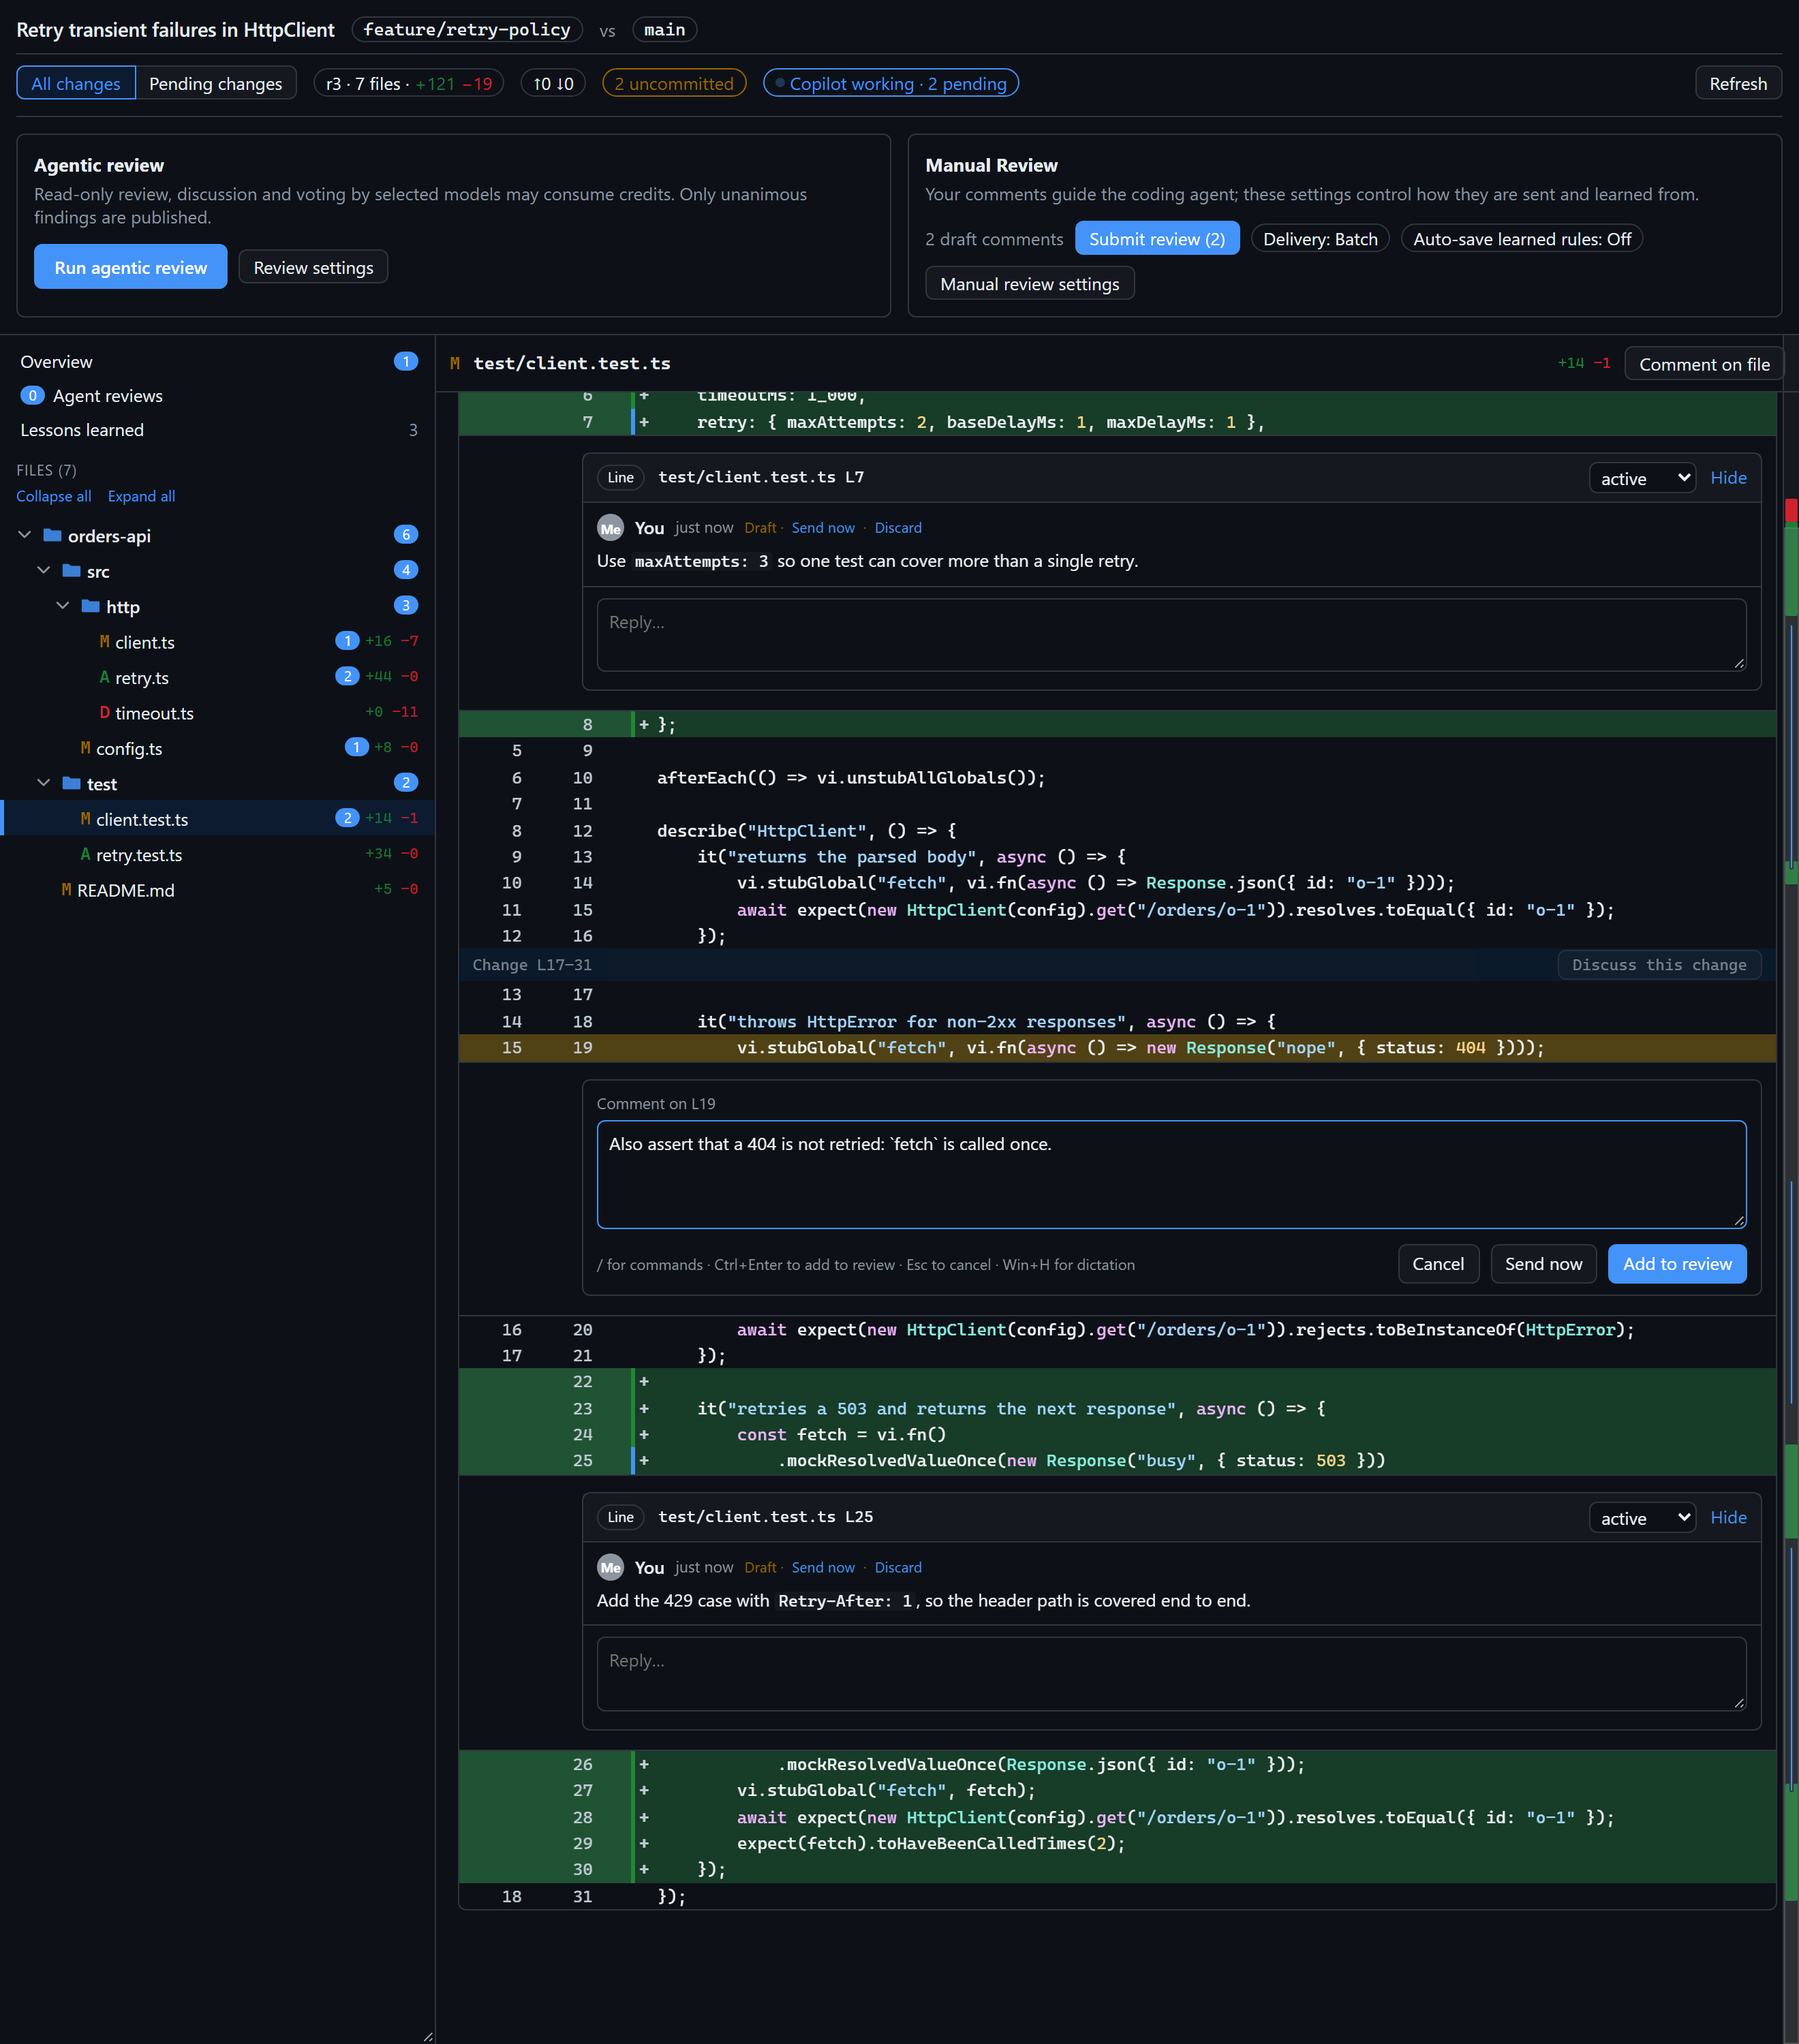
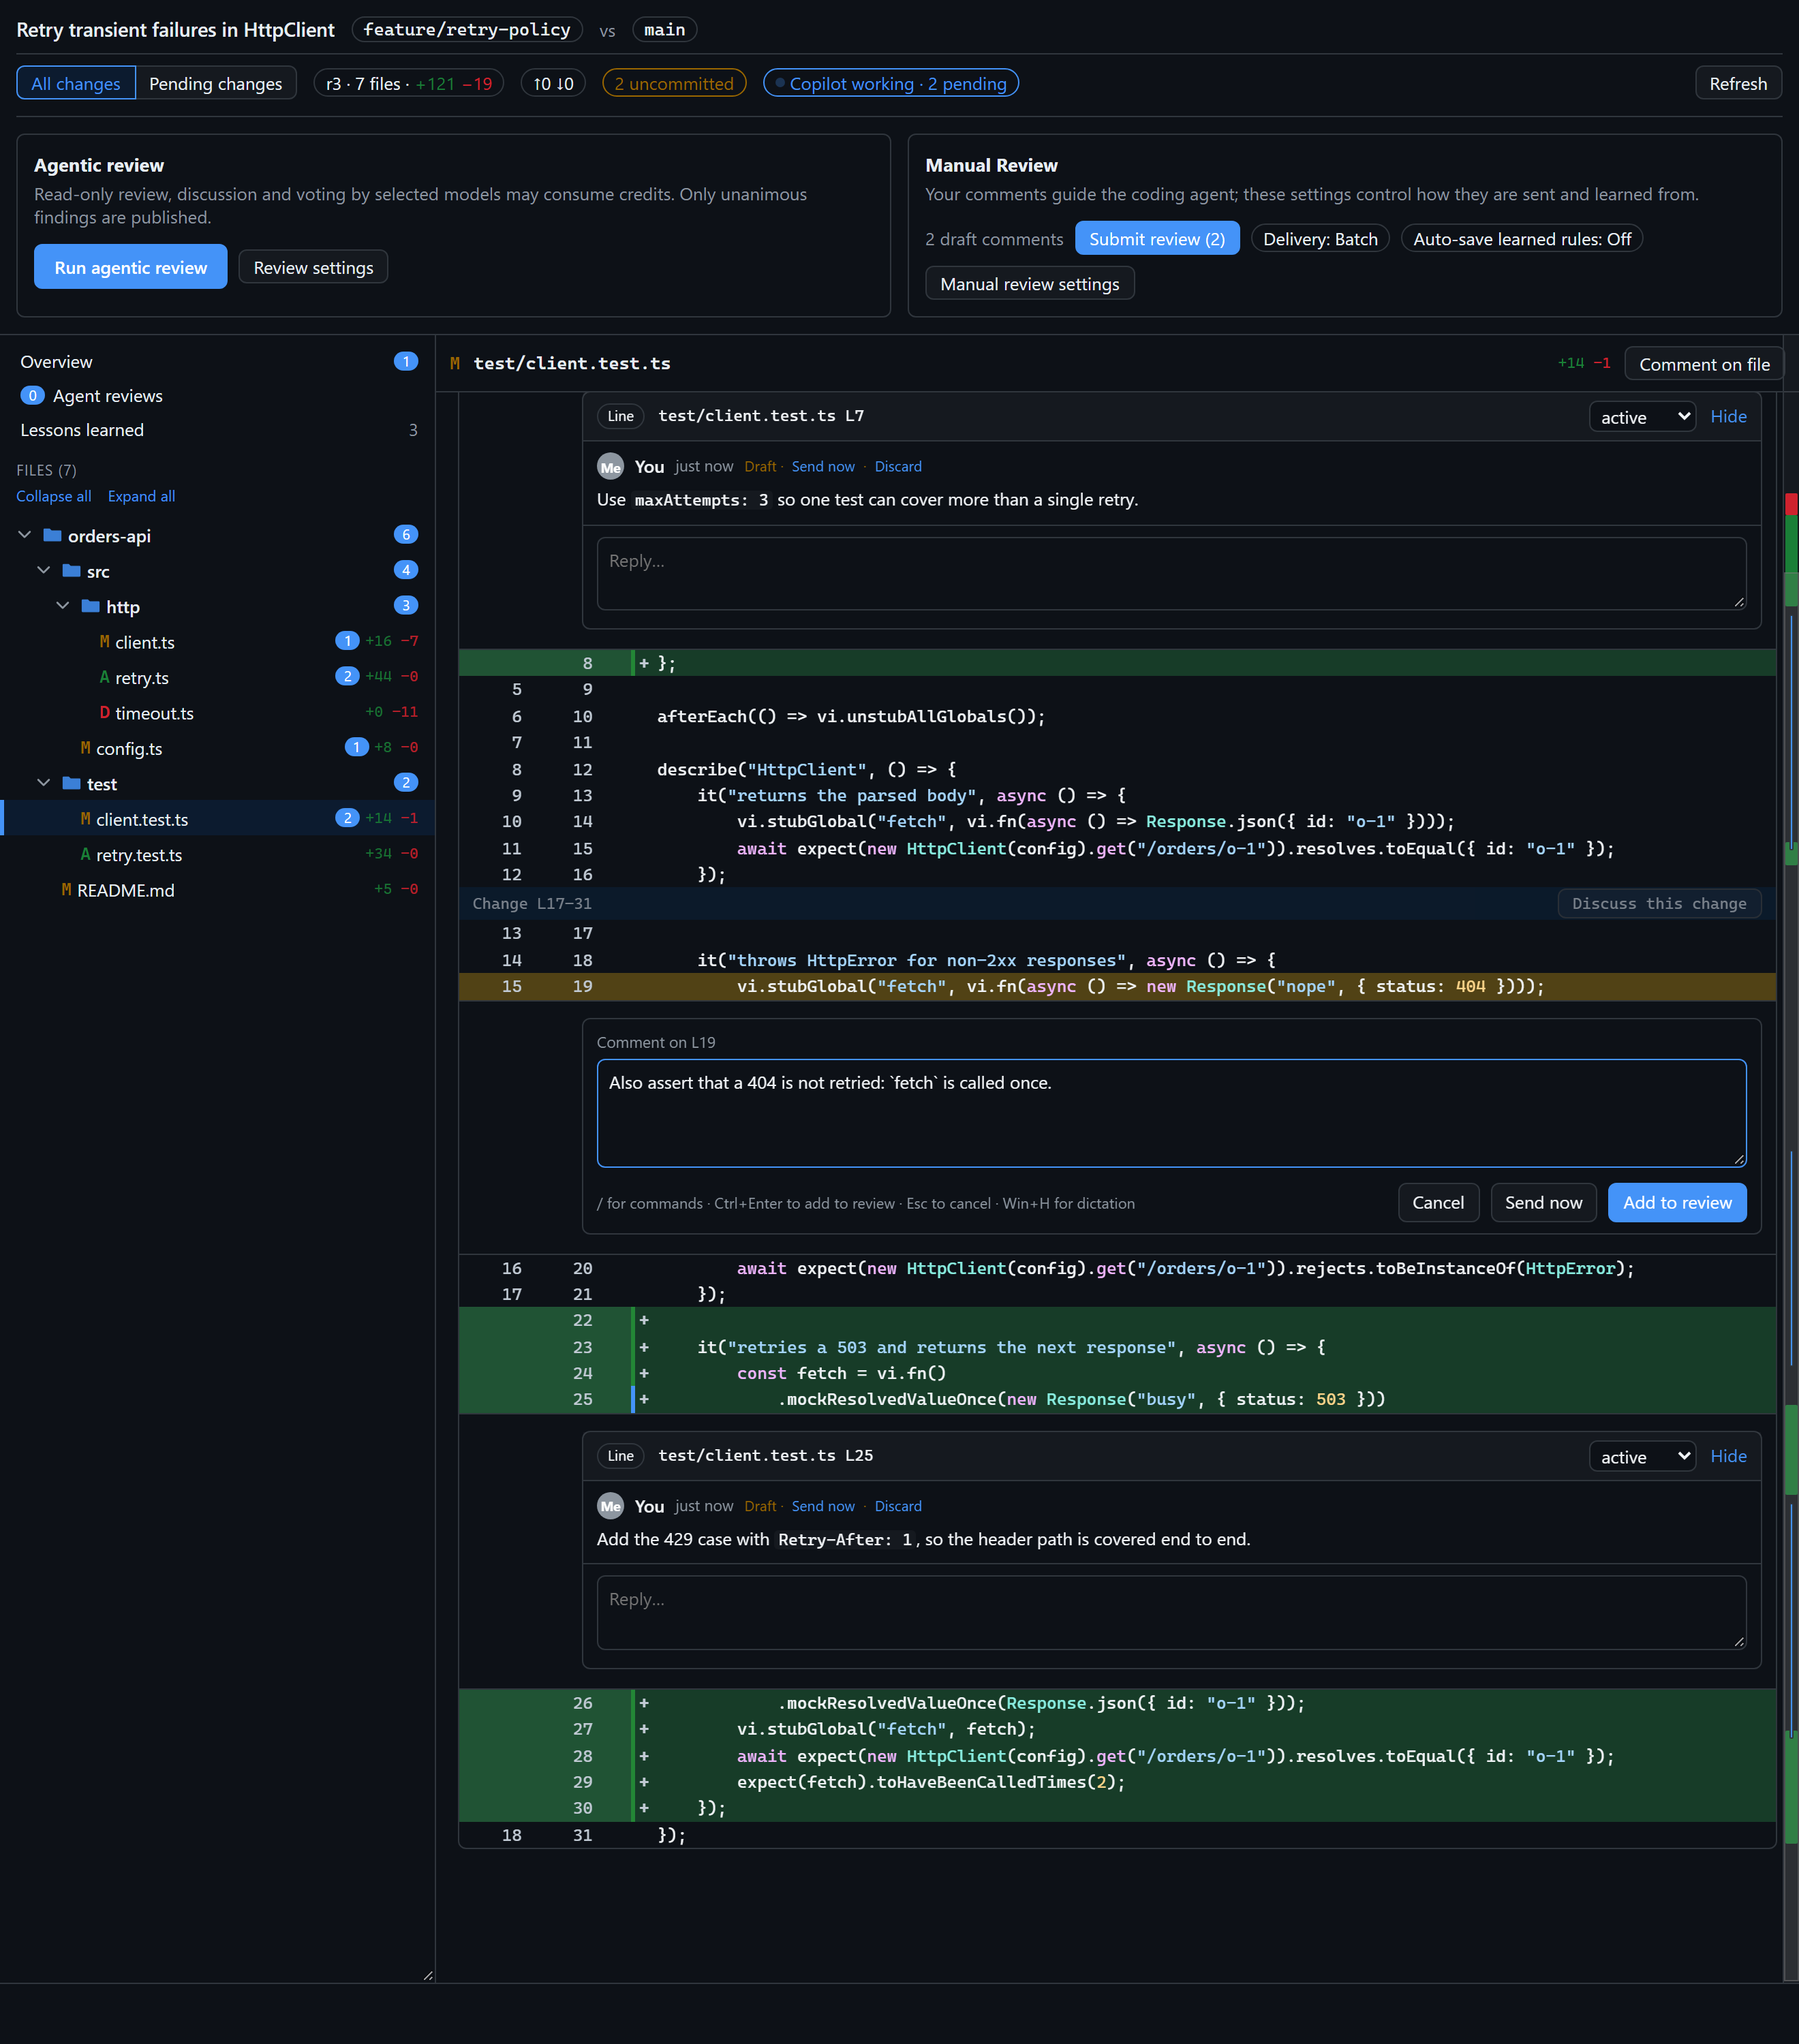
Keep the review layout stable while refreshing
Fixes #31.

diff --git a/extensions/self-review/dist/web/app.js b/extensions/self-review/dist/web/app.js
@@ -844,9 +844,13 @@ function renderLoadStatus() {
     const failureLabel = loadError ? "Could not load the current review" : "Could not refresh from the working tree";
     status.hidden = !pending && !error;
     status.className = error && !pending ? "review-status del" : "review-status muted";
-    status.innerHTML = pending
+    const message = pending
         ? state.review ? "Refreshing review and Overview... Showing the last loaded data." : "Loading review and Overview..."
-        : error ? `${failureLabel}: ${esc(error)}. ${state.review ? "Showing the last loaded data. " : ""}<button data-action="refresh">Retry</button>` : "";
+        : error ? `${failureLabel}: ${esc(error)}. ${state.review ? "Showing the last loaded data." : ""}` : "";
+    const retry = error && !pending ? `<button type="button" data-action="refresh">Retry</button>` : "";
+    const html = message ? `<span class="review-status-message">${message}</span>${retry}` : "";
+    if (status.innerHTML !== html)
+        status.innerHTML = html;
 }
 async function loadState() {
     clearTimeout(reloadTimer);
@@ -917,7 +921,8 @@ function scheduleReload() {
         reloadPending = false;
         return;
     }
-    reloadTimer = window.setTimeout(() => loadState().catch((err) => toast(errorMessage(err), true)), 120);
+    // loadState already reports failures in the persistent status footer.
+    reloadTimer = window.setTimeout(() => loadState().catch(() => undefined), 120);
 }
 async function refreshReview() {
     refreshing = true;
@@ -1382,7 +1387,7 @@ function renderDialog() {
     if (!dialog)
         return;
     dialog.innerHTML = dialogHtml();
-    for (const id of ["#top", "#banner", "#layout"]) {
+    for (const id of ["#top", "#banner", "#layout", "#review-status-slot"]) {
         const el = $(id);
         if (el)
             el.inert = Boolean(state.dialog);
@@ -2755,9 +2760,10 @@ async function onClick(e) {
         }
     }
     catch (err) {
-        toast(errorMessage(err), true);
         if (action === "refresh")
             target.removeAttribute("disabled");
+        else
+            toast(errorMessage(err), true);
     }
 }
 async function onChange(e) {

diff --git a/extensions/self-review/src/web/app.ts b/extensions/self-review/src/web/app.ts
@@ -1070,9 +1070,12 @@ function renderLoadStatus(): void {
     const failureLabel = loadError ? "Could not load the current review" : "Could not refresh from the working tree";
     status.hidden = !pending && !error;
     status.className = error && !pending ? "review-status del" : "review-status muted";
-    status.innerHTML = pending
+    const message = pending
         ? state.review ? "Refreshing review and Overview... Showing the last loaded data." : "Loading review and Overview..."
-        : error ? `${failureLabel}: ${esc(error)}. ${state.review ? "Showing the last loaded data. " : ""}<button data-action="refresh">Retry</button>` : "";
+        : error ? `${failureLabel}: ${esc(error)}. ${state.review ? "Showing the last loaded data." : ""}` : "";
+    const retry = error && !pending ? `<button type="button" data-action="refresh">Retry</button>` : "";
+    const html = message ? `<span class="review-status-message">${message}</span>${retry}` : "";
+    if (status.innerHTML !== html) status.innerHTML = html;
 }
 
 async function loadState() {
@@ -1138,7 +1141,8 @@ function scheduleReload() {
         reloadPending = false;
         return;
     }
-    reloadTimer = window.setTimeout(() => loadState().catch((err: unknown) => toast(errorMessage(err), true)), 120);
+    // loadState already reports failures in the persistent status footer.
+    reloadTimer = window.setTimeout(() => loadState().catch(() => undefined), 120);
 }
 
 async function refreshReview(): Promise<void> {
@@ -1586,7 +1590,7 @@ function renderDialog() {
     const dialog = $("#dialog");
     if (!dialog) return;
     dialog.innerHTML = dialogHtml();
-    for (const id of ["#top", "#banner", "#layout"]) {
+    for (const id of ["#top", "#banner", "#layout", "#review-status-slot"]) {
         const el = $(id);
         if (el) el.inert = Boolean(state.dialog);
     }
@@ -2931,8 +2935,8 @@ async function onClick(e: MouseEvent): Promise<void> {
                 break;
         }
     } catch (err: unknown) {
-        toast(errorMessage(err), true);
         if (action === "refresh") target.removeAttribute("disabled");
+        else toast(errorMessage(err), true);
     }
 }
 

diff --git a/extensions/self-review/dist/web/index.html b/extensions/self-review/dist/web/index.html
@@ -10,12 +10,14 @@
 <body>
     <header id="top"><span class="muted">Loading review…</span></header>
     <div id="banner" role="region" aria-label="Guideline learning" hidden></div>
-    <div id="review-status" class="review-status muted" role="status" aria-live="polite" hidden></div>
     <div id="layout">
         <nav id="side" aria-label="Review navigation"></nav>
         <main id="main" tabindex="-1"></main>
         <div id="ruler" aria-hidden="true"></div>
     </div>
+    <footer id="review-status-slot" role="status" aria-live="polite">
+        <div id="review-status" class="review-status muted" hidden></div>
+    </footer>
     <div id="dialog"></div>
     <div id="toast" role="status" aria-live="polite" hidden></div>
     <script type="module" src="app.js"></script>

diff --git a/extensions/self-review/web/index.html b/extensions/self-review/web/index.html
@@ -10,12 +10,14 @@
 <body>
     <header id="top"><span class="muted">Loading review…</span></header>
     <div id="banner" role="region" aria-label="Guideline learning" hidden></div>
-    <div id="review-status" class="review-status muted" role="status" aria-live="polite" hidden></div>
     <div id="layout">
         <nav id="side" aria-label="Review navigation"></nav>
         <main id="main" tabindex="-1"></main>
         <div id="ruler" aria-hidden="true"></div>
     </div>
+    <footer id="review-status-slot" role="status" aria-live="polite">
+        <div id="review-status" class="review-status muted" hidden></div>
+    </footer>
     <div id="dialog"></div>
     <div id="toast" role="status" aria-live="polite" hidden></div>
     <script type="module" src="app.js"></script>

diff --git a/extensions/self-review/dist/web/styles.css b/extensions/self-review/dist/web/styles.css
@@ -96,8 +96,6 @@ body[data-theme-tone="light"] {
 
 * { box-sizing: border-box; }
 
-.review-status { padding: 8px 16px; border-bottom: 1px solid var(--mr-border); }
-
 html, body {
     margin: 0;
     height: 100%;
@@ -108,6 +106,25 @@ html, body {
 }
 
 body { display: flex; flex-direction: column; overflow: hidden; }
+
+#review-status-slot {
+    flex: 0 0 3.5rem;
+    min-height: 0;
+    border-top: 1px solid var(--mr-border);
+}
+.review-status:not([hidden]) {
+    display: flex;
+    align-items: center;
+    gap: 8px;
+    height: 100%;
+    padding: 4px 16px;
+}
+.review-status-message {
+    min-width: 0;
+    max-height: 100%;
+    overflow: auto;
+    overflow-wrap: anywhere;
+}
 
 button, select, textarea, input { font: inherit; color: inherit; }
 

diff --git a/extensions/self-review/web/styles.css b/extensions/self-review/web/styles.css
@@ -96,8 +96,6 @@ body[data-theme-tone="light"] {
 
 * { box-sizing: border-box; }
 
-.review-status { padding: 8px 16px; border-bottom: 1px solid var(--mr-border); }
-
 html, body {
     margin: 0;
     height: 100%;
@@ -108,6 +106,25 @@ html, body {
 }
 
 body { display: flex; flex-direction: column; overflow: hidden; }
+
+#review-status-slot {
+    flex: 0 0 3.5rem;
+    min-height: 0;
+    border-top: 1px solid var(--mr-border);
+}
+.review-status:not([hidden]) {
+    display: flex;
+    align-items: center;
+    gap: 8px;
+    height: 100%;
+    padding: 4px 16px;
+}
+.review-status-message {
+    min-width: 0;
+    max-height: 100%;
+    overflow: auto;
+    overflow-wrap: anywhere;
+}
 
 button, select, textarea, input { font: inherit; color: inherit; }
 

diff --git a/README.md b/README.md
@@ -51,7 +51,7 @@ Select lines on either side of the diff to start a thread.
 
 The overview has the PR-style description the agent drafted, the overall discussion, and every thread with its delivery state. Revision snapshots still anchor threads and agent reviews but are not listed on the overview.
 
-A status strip indicates when the review and Overview are loading or refreshing; existing content stays visible as last-loaded data while updates arrive. Failed loads remain visible with **Retry**, without discarding your navigation or comment drafts. A missing description means no draft has been saved, not that generation is underway: ask Copilot in the Overview discussion to write one. Descriptions based on an earlier diff are explicitly labeled until the agent updates them.
+A fixed-height footer shows when the review and Overview are loading or refreshing without moving the file tree, Overview, or controls. The last loaded review stays visible while updates arrive. Errors remain in the footer with **Retry**, without discarding your navigation or comment drafts. A missing description means no draft has been saved, not that generation is underway: ask Copilot in the Overview discussion to write one. Descriptions based on an earlier diff are explicitly labeled until the agent updates them.
 
 <picture>
   <source media="(prefers-color-scheme: dark)" srcset="docs/images/overview-dark.png">
@@ -273,6 +273,8 @@ npm run render
 ```
 
 Pass `-- --keep` to `npm run render` to leave the demo review running and print its URL.
+
+Run `npm run render -- --check-refresh-layout` from `docs/screenshots` after building to check that the file tree, Overview pane, and Refresh button stay in place during refresh, an error, and a successful retry. This opt-in check uses the same browser prerequisites and does not regenerate screenshots.
 
 ## Status
 
